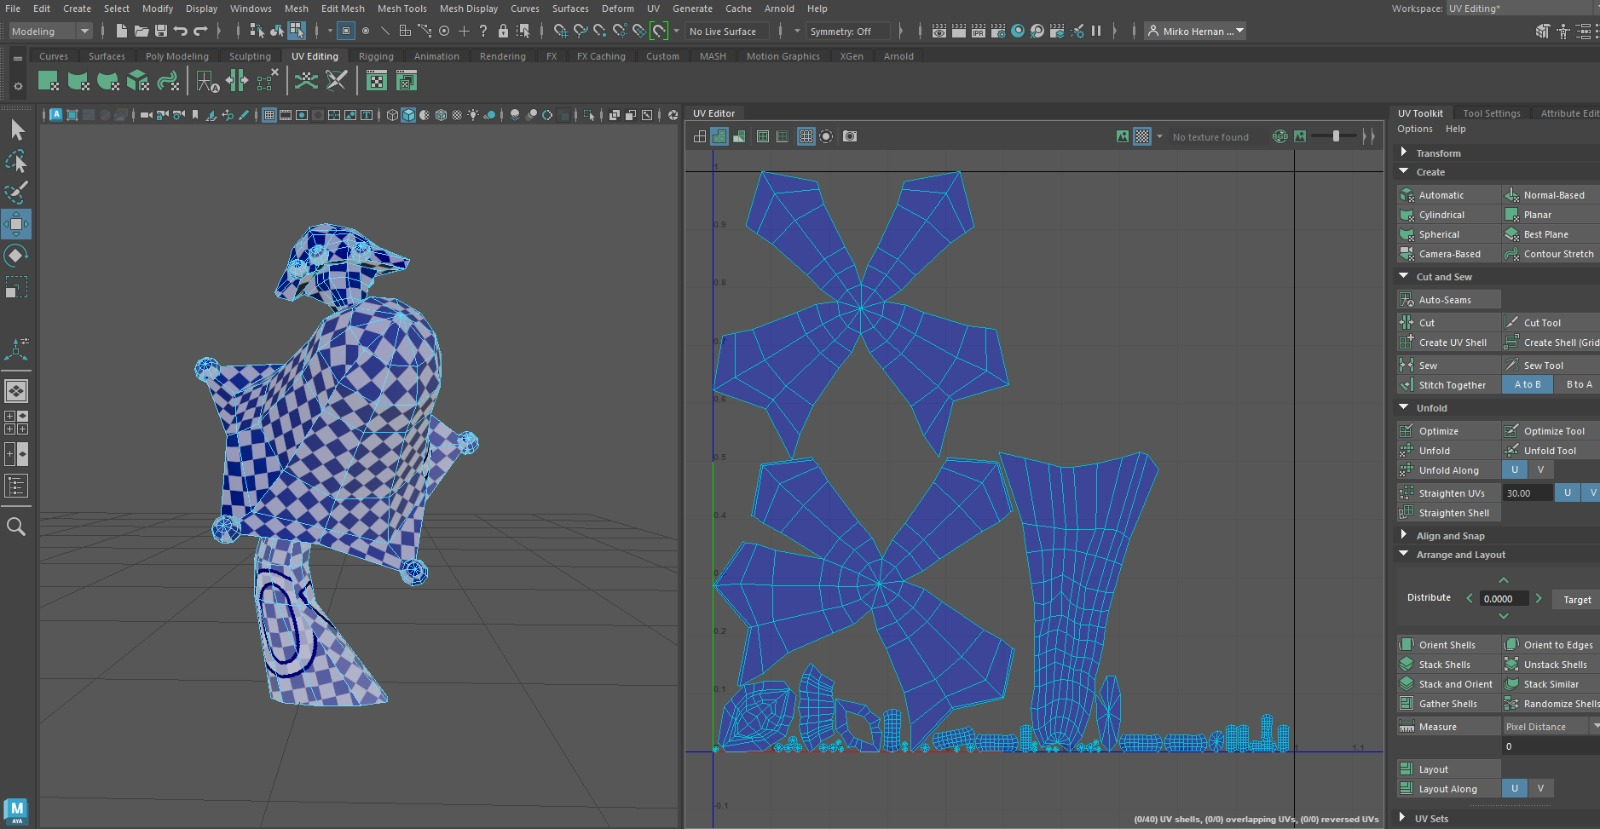
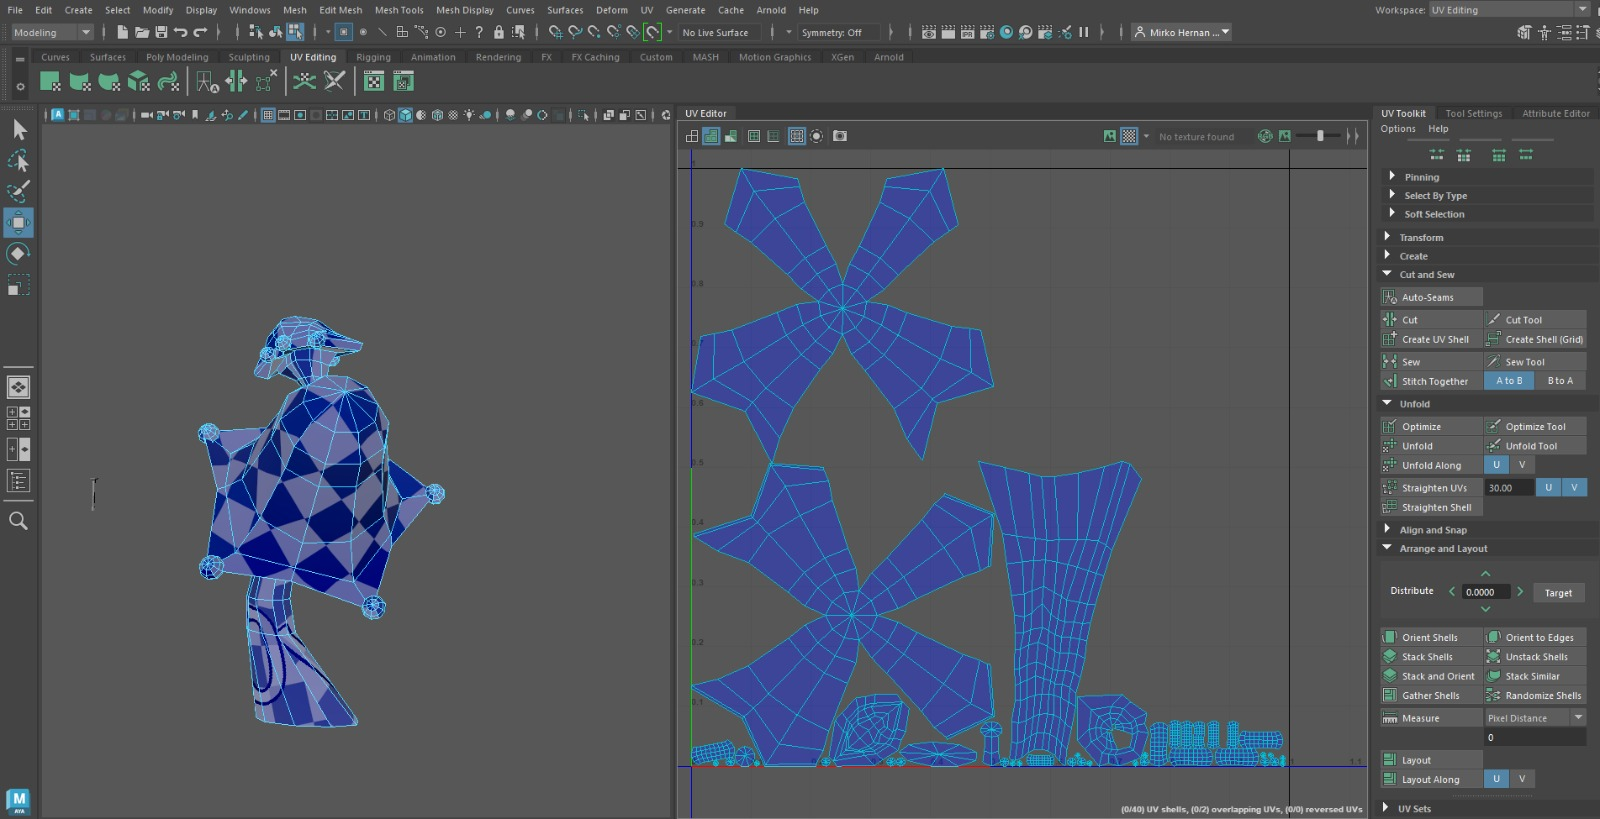
fsdfd

diff --git a/WW.html b/WW.html
@@ -154,10 +154,10 @@
         <img src="Imagenes/uv_1.jpeg">
  </div>
 <div class="project-Image">
-        <img src="Imagenes/uv_2.jpeg">
+        <img src="Imagenes/uv_2.JPG">
  </div> 
     <div class="project-Image">
-        <img src="Imagenes/uv_3.jpeg">
+        <img src="Imagenes/uv_3.JPG">
  </div>
 
 <div class="project-section">
